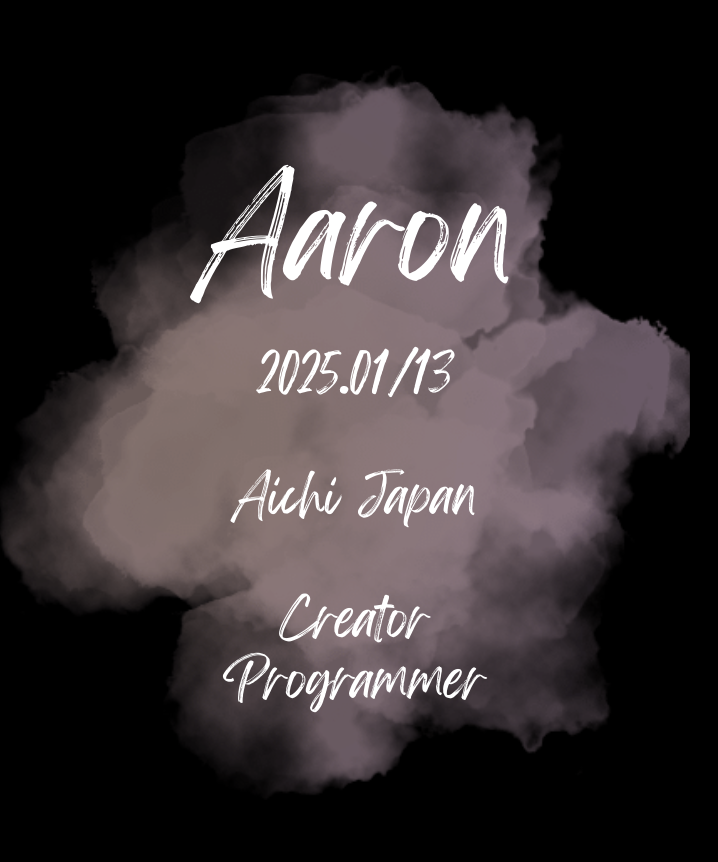
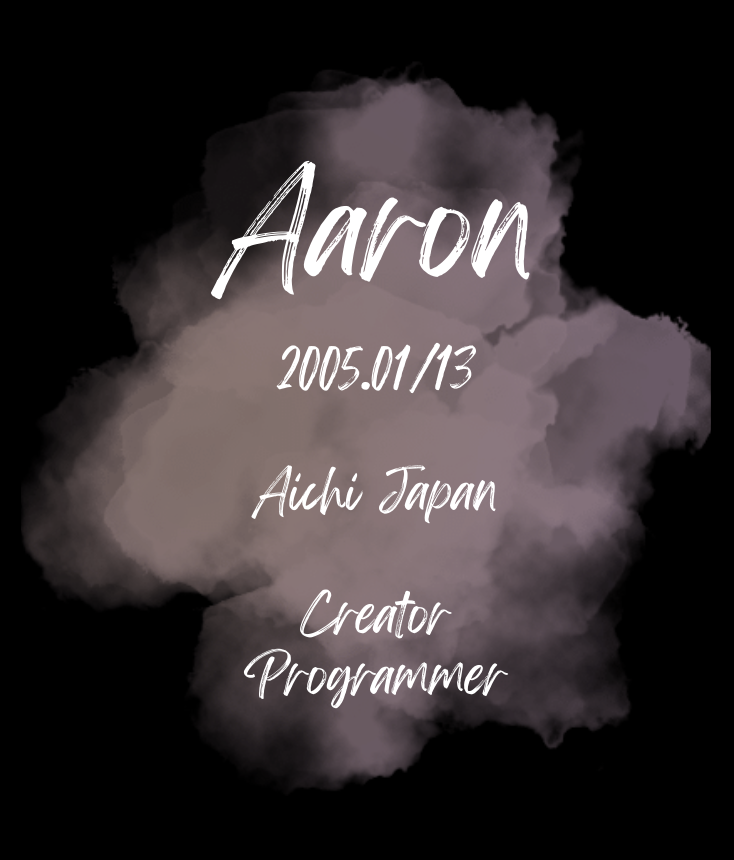
Fix birthdate typo in profile info graphic (2025 -> 2005)

diff --git a/index.html b/index.html
@@ -54,7 +54,7 @@
       </div>
       <div class="profile-info">
         <h1 class="sr-only">Aaron / アーロン</h1>
-        <img class="info-image" src="assets/profile-info.png" alt="Aaron, 2005.01.13, Aichi Japan, Creator / Programmer" width="718" height="862">
+        <img class="info-image" src="assets/profile-info.png" alt="Aaron, 2005.01.13, Aichi Japan, Creator / Programmer" width="734" height="860">
       </div>
     </section>
 
